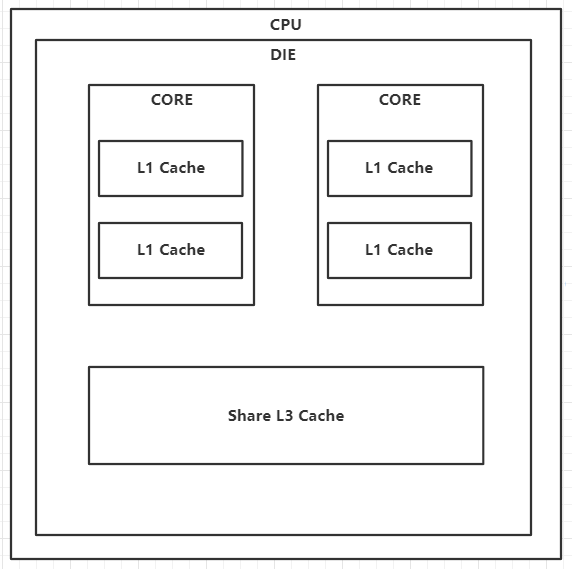
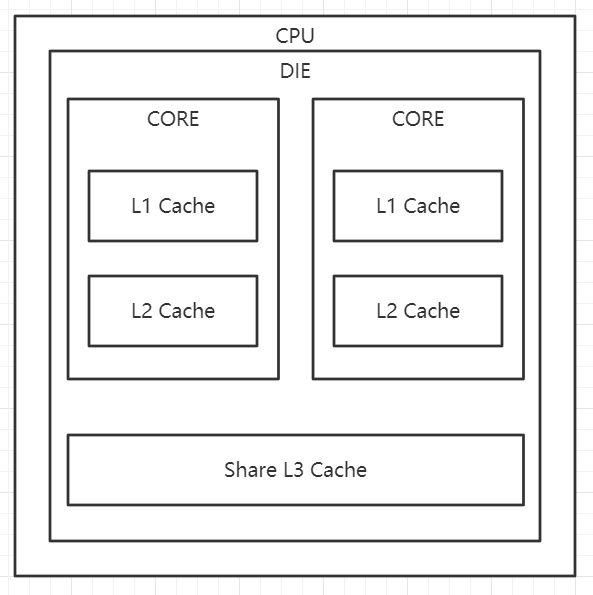
JVM内存相关

Changed region(s): [[0.0, 0.0, 1.0, 0.9859]]

diff --git a/编程语言/Java/Java 进阶/Java并发编程.md b/编程语言/Java/Java 进阶/Java并发编程.md
@@ -1,5 +1,3 @@
-# Java 并发编程
-
 ## 概述
 
 ### 并发与并行
@@ -510,7 +508,7 @@ public static void main(String[] args) throws InterruptedException {
 
 一块 `die` 上可以有多个核心 `core` ，而一块 `cpu` 的 `pcb` 上也可以有多个 `die` 。而 `die` 的大小对 `cpu` 的性能和成本也会有很大影响，`die` 越大则出错的几率也越大良品率下降成本增加，因为 `die` 内部的各部分组件直接通过片内总线相连对性能也有很大提升，例如 `Intel Xeon` 系列的高端处理器中整个 `cpu` 中只有一个 `die` 。反之，`die` 越小虽然良品率上升成本下降，也会因为 `die` 大小原因无法放下更多核心或多个 `die` 之间需要片外总线相连导致性能下降，例如 `AMD` 的 `EYPC CPU` 。
 
-![image-20220210163711496](photo/53、CPU简单结构图(7).png) 
+![image-20220211142800536](photo/53、CPU简单结构图(7).png)  
 
 出自：[CPU DIE - zhihu](https://zhuanlan.zhihu.com/p/51354994) 
 
@@ -518,15 +516,40 @@ public static void main(String[] args) throws InterruptedException {
 
 #### CPU 缓存
 
+##### 概述
+
 计算机的储存硬件通常是固态硬盘 `ssd` 或者机械硬盘 `hdd` ，由于存储介质及其物理特性导致 `ssd` 硬盘比 `hdd` 硬盘存取速度甚至可以高出十几倍之多。虽然 `ssd` 硬盘的速度已经非常可观，但是和 `cpu` 的吞吐量相比差距十分巨大。所以就有了内存 `ram` 用作 `cpu` 和硬盘之间的桥梁，`cpu` 想要读取硬盘中的数据首先需要将数据加载到 `ram` 中再进行下一步操作。
+
+##### 缓存与内存
 
 虽然添加内存之后 `cpu` 的性能得到进一步的发挥，但是内存一般使用 `DRAM` 技术，使用 `DRAM` 储存一位数据需要一个电容加一个晶体管，数据储存在电容中，电容需要充放电才可以进行读写操作，这就导致在读写过程中产生较大的延迟。于是就需要 `cpu` 缓存技术，`cpu` 缓存一般是与核心一起封装在一个 `die` 中，这样的设计也会使性能大大增加。`cpu` 缓存一般采用 `SRAM` 技术，`SRAM` 储存一位数据需要六个晶体管性能方面较 `DRAM` 也有较大提升，因此 `cpu` 缓存的频率与 `cpu` 频率相近。而由于 `SRAM` 技术成本较高且缓存位于 `die` 中，因此 `cpu` 缓存一般只有几十 `KB` 到几十 `MB` 。
 
 详见：[SRAM 与 DRAM](# SRAM 与 DRAM) 
 
+##### CPU 中缓存的结构
+
 现代 `cpu` 一般有三层缓存，呈金字塔状，最接近 `cpu` 的缓存（一般使用 `L1` 标记）容量最小性能也最高，其他缓存性能逐层递减容量也递增。当 `cpu` 查询某条数据时会先从 `L1` 缓存中查找若命中 `cache hit` 则直接使用，若未命中 `cache miss` 则从下一级缓存中查找，直到从内存中获取，最后经过缓存返回到 `cpu` 中。
 
+对于一个完整的 `CPU` ，里面会有若干个核，比如四核八核等等，对于 `CPU` 多核心的场景下，每个核心的 `L1` , `L2` 缓存都只能被这个核访问，别的核无法访问，`L1` ，`L2` 是这个核的私有缓存。而相对应的，`L3` 缓存被以某种协议或者方式链接到 `CPU` 内的一种总线上，供所有核访问，所以，`L3` 为共享缓存。
+
 > 注：在随机读取状态下，内存的读取速度会下降，因为随机读取会导致大量的 `cache miss` 致使性能下降。
+
+##### 缓存性能
+
+一般来说 `L1` 缓存作为最靠近 `cpu` 核心的部分，其频率是与核心频率相同的，当然，容量也是最小的，一般只有几十到几百 `KB` 。而 `L2` 和 `L3` 缓存容量逐级增大，性能也逐级下降。
+
+某 `CPU` 性能表：
+
+|                                 | 时钟周期 | 纳秒（ns） |
+| ------------------------------- | -------- | ---------- |
+| L1 一级缓存                     | 4        | 1.2~2.1    |
+| L2 二级缓存                     | 10       | 3.0~5.3    |
+| L3 三级缓存（核心独享）         | 40       | 12.0~21.4  |
+| L3 三级缓存 （正在共享）        | 65       | 19.5~34.8  |
+| L3 三级缓存（其他核心正在修改） | 75       | 22.5~40.2  |
+| 内存                            |          | 60         |
+
+出自：[CPU缓存(Cache)背后的运行逻辑1-缓存必知](https://zhuanlan.zhihu.com/p/353553358) 
 
 英特尔 `skylake` 架构
 
@@ -556,7 +579,7 @@ public static void main(String[] args) throws InterruptedException {
 
 #### MESI 协议
 
-因为 `IO` 操作的数据访问具有空间连续性（需要访问内存中的很多数据），但是 `IO` 操作较慢，而在 `IO` 操作时读一个字节和读多个字节的时间基本相同，所以内存中操作 `IO` 不是以字节为单位，而是以块为单位。即 `cpu` 缓存中最小的储存单元是缓存行 `cache line` ，而每一级的缓存都会被划分为多组 `cache line` 。例如在 `x86 cpu` 中一个缓存行储存 `64` 字节的数据。
+因为 `IO` 操作的数据访问具有空间连续性（需要访问内存中的很多数据），但是 `IO` 操作较慢，而在 `IO` 操作时读一个字节和读多个字节的时间基本相同，所以内存中操作 `IO` 不是以字节为单位，而是以块为单位。即 `cpu` 缓存中最小的储存单元是缓存行 `cache line` ，而每一级的缓存都会被划分为多组 `cache line` 。目前主流的 `CPU` 的缓存行大小都为 `64B` ，也就是 `512bit` 。这是因为内存的一次传输的单位也是 `64` 字节。
 
 `MESI` 协议即是对缓存行的定义，此协议定义了缓存行的四种状态，使用额外的两位来标识。
 
@@ -584,13 +607,137 @@ public static void main(String[] args) throws InterruptedException {
 
 #### 伪共享
 
+##### 概述
+
 同时更新来自不同处理器的相同缓存代码行中的单个元素会使整个缓存代码行无效，即使这些更新在逻辑上是彼此独立的。每次对缓存代码行的单个元素进行更新时，都会将此代码行标记为**无效**。其他访问同一代码行中不同元素的处理器将看到该代码行已标记为**无效**。即使所访问的元素未被修改，也会强制它们从内存或其他位置获取该代码行的较新副本。这是因为基于缓存代码行保持缓存一致性，而不是针对单个元素的。因此，互连通信和开销方面都将有所增长。并且，正在进行缓存代码行更新的时候，禁止访问该代码行中的元素。
 
+出自：[Oracle 伪共享](https://docs.oracle.com/cd/E19205-01/821-0393/aewcx/index.html) 
 
+蓝色部分是指定 `cpu` 要使用的数据。 
 
-[oracle 伪共享](https://docs.oracle.com/cd/E19205-01/821-0393/aewcx/index.html) 
+![image-2022021109230149](photo/55、MESI协议伪共享01(7).png)  
 
-[Java 中的伪共享](https://juejin.cn/post/7019475740970188837) 
+当 `cpu1` 中缓存行其使用的元素进行修改时，会将 `cpu1` 的此缓存行标记为被修改，`cpu2` 的对应缓存行则会被标记为无效。
+
+![image-20220211092058984](photo/56、MESI协议伪共享02(7).png) 
+
+当 `cpu2` 需要使用后三个元素时，虽然其元素内容与内存中的内容相同，但由于 `cpu2` 的指定缓存行已经被标记为无效，所以还是需要重新获取最新的数据。
+
+![image-20220211093506888](photo/57、MESI协议伪共享03(7).png) 
+
+伪共享 `cpu` 结构图
+
+![伪共享](photo/58、MESI协议伪共享结构图(7).png) 
+
+可以看到在单 `cpu` 多核的情况下需要重新从 `L3` 缓存获取最新的数据，但是如果是多 `cpu` 甚至需要跨槽 `socket` 读取，需要从内存中加载最新值。
+
+ ##### Java 中的伪共享
+
+伪共享在 `java` 中也是一个实际存在的问题，尤其是在循环等情况下会产生较大的资源浪费。
+
+```java
+class MyObject{
+    long a;
+    long b;
+    long c;
+}
+```
+
+如上，对象中有三个 `long` 型变量，`jvm` 在堆中分配空间时这三个变量是在一起的。一个 `long` 占8个字节，而 `x86` 的缓存行为64个字节，因此这三个变量极有可能会在同一缓存行中。
+
+使用以下代码来测试伪共享对性能的影响。
+
+```java
+public class FalseShareTest implements Runnable {
+    // 使用的线程数量
+    public static int NUM_THREADS = 5;
+    // 数组中元素修改次数
+    public final static long ITERATIONS = 500L * 1000L * 1000L;
+    // 当前对象是第几个元素
+    private final int arrayIndex;
+    // 数组
+    private static VolatileLong[] longs;
+    // 运行10次的总时间
+    public static long SUM_TIME = 0l;
+
+    public FalseShareTest(final int arrayIndex) {
+        this.arrayIndex = arrayIndex;
+    }
+
+    public static void main(final String[] args) throws Exception {
+        Thread.sleep(10000);
+        // 运行10次取均值
+        for(int j=0; j<10; j++){
+            System.out.println(j);
+            // 读参
+            if (args.length == 1) {
+                NUM_THREADS = Integer.parseInt(args[0]);
+            }
+            // 新建数组
+            longs = new VolatileLong[NUM_THREADS];
+            for (int i = 0; i < longs.length; i++) {
+                // 实例化对象赋值
+                longs[i] = new VolatileLong();
+            }
+            final long start = System.nanoTime();
+            // 启动线程并等待完成
+            runTest();
+            final long end = System.nanoTime();
+            SUM_TIME += end - start;
+        }
+        // 取均值
+        System.out.println("平均耗时："+SUM_TIME/10);
+    }
+    private static void runTest() throws InterruptedException {
+        // 线程数组
+        Thread[] threads = new Thread[NUM_THREADS];
+        for (int i = 0; i < threads.length; i++) {
+            // 实例化线程
+            threads[i] = new Thread(new FalseShareTest(i));
+        }
+        // 运行
+        for (Thread t : threads) {
+            t.start();
+        }
+        // 等待完成
+        for (Thread t : threads) {
+            t.join();
+        }
+    }
+    public void run() {
+        // 循环给指定元素赋值
+        long i = ITERATIONS + 1;
+        while (0 != --i) {
+            longs[arrayIndex].value = i;
+        }
+    }
+
+    public final static class VolatileLong {
+        public volatile long value = 0L;
+        // 填充缓存行
+        public long p1, p2, p3, p4, p5, p6;     //屏蔽此行
+    }
+
+}
+```
+
+上面代码使用了一个对象数组，这个对象 `VolatileLong` 中有7个 `long` 型变量，其中 `value` 使用 `volatile` 标记，以保证变量的可见性 详见：[Volatile 详解](# Volatile) 。线程 `run` 方法中的代码就是用不同的线程给数组中不同的元素 `VolatileLong` 对象的 `value` 赋值，使用 `for` 循环实例化对象并填充到数组中，此时，数组中的对象在内存中储存的位置应该彼此相邻。此时，整个数组就会在同一个缓存行中被加载到缓存中，不同线程循环不停赋值时就会出现伪共享现象。因此我们在 `VolatileLong` 对象中添加了6个额外的 `long` 型数据，用于撑大 `VolatileLong` 的大小，使数组中的元素不在同一个缓存行中避免伪共享。
+
+关于对象储存大小的详细介绍请查看：[Java 对象模型](# Java 对象模型) 
+
+一下的图表是填充空值和未填充空值时，分别1-5个线程下程序执行所用时间。
+
+![](photo/59、MESI协议伪共享统计图(7).png)  
+
+可以看到在无填充的情况下处理耗时的增长明显大于填充的情况，非常明显，在无填充时发生了伪共享问题，而这个问题在线程越多的情况下越严重。
+
+测试方法及代码出自：[伪共享（false sharing），并发编程无声的性能杀手 ](https://www.cnblogs.com/cyfonly/p/5800758.html) 
+
+##### 避免伪共享
+
+首先第一种就是使用空白的变量进行填充，使不同的元素无法被保存在同一个缓存行中。第二种是使用 `sun.misc.Contended` 注解来解决此问题，此注解的原理也与空白填充的原理相同。在默认情况下，`＠Contended` 注解只用于 `Java` 核心类， 比如此包下的类。如果用户类路径下的类需要使用这个注解， 则需要添加 `JVM` 参数：`-XX:-RestrictContended` 。填充的宽度默认为前后128字节，要自定义宽度则可以设置 `-XX: ContendPaddingWidth` 参数。
+
+伪共享是很隐蔽的，我们暂时无法从系统层面上通过工具来探测伪共享事件。其次，不同类型的计算机具有不同的微架构（如 32 位系统和 64 位系统的 `java` 对象所占自己数就不一样），如果设计到跨平台的设计，那就更难以把握了，一个确切的填充方案只适用于一个特定的操作系统。并且，缓存的资源是有限的，如果填充会浪费珍贵的 `cache` 资源，并不适合大范围应用。
 
 ### JVM 内存
 
@@ -600,17 +747,47 @@ public static void main(String[] args) throws InterruptedException {
 
 #### JVM 内存分区
 
+`JVM` 在执行 `Java` 程序的过程中会把它所管理的内存划分为若干个不同的数据区域。这些区域都有各自的用途，以及创建和销毁的时间，有的区域随着虚拟机进程的启动而存在，有些区域则依赖用户线程的启动和结束而建立和销毁。
 
+![jvm运行时数据区](photo/60、JVM运行时内存分区(7).png) 
+
+`JVM` 内存分区是一个抽象概念，其中的堆、方法区和线程私有的数据，都有可能出现在物理机的内存、缓存和 `cpu` 寄存器中。
+
+##### 程序计数器
+
+程序计数器 `Program Counter Register` 用于储存当前线程所执行的字节码的地址，程序的分支、循环、跳转、异常、线程恢复等都依赖于计数器。当多线程执行当前线程没有获取到 `cpu` 资源或被其他线程获取，当前线程就需要一个单独的计数器，用于在获取到 `cpu` 资源后恢复到正确的位置继续执行。此计数器保存在线程私有的内存中，各线程之间独立储存互不干扰。
+
+若当前线程执行的是 `Java` 方法，则计数器中储存虚拟机字节码的地址；若执行的是本地方法 `Native Method` ，则这个计数器值为空 `Undefined` 。
+
+> 注：此内存空间是唯一一个在 `JVM` 中没有规定 `OutOfMemoryError` 错误的区域。
+
+##### Java 虚拟机栈 Java Virtual Machine Stacks
+
+`Java` 虚拟机栈 `Java Vitual Machine Stack` 是 `Java` 方法执行的内存模型，在栈中存放的是多个栈帧，每个栈帧对应一个被调用的方法，在栈帧中包含了方法的局部变量 `Local Variables` 、操作数栈 `Operand Stack` 、指向方法所属类的运行时常量池 `Reference to runtime constant pool` 、方法返回地址 `Return Address` 和一些额外信息。当线程执行一个方法，便会自动创建一个对应的栈帧，并将栈帧压入栈中。当方法执行完毕，便会将对应的栈帧出栈，而当前执行的方法会永远处于栈帧的顶部。
+
+![image-20220211165207439](photo/60、JVM运行时内存分区-栈(7).png) 
+
+##### 本地方法栈 Native Method Stacks
+
+本地方法栈作用于 `Java` 栈类似，本地方法栈是用于执行本地方法 `Native Method` 。在JVM规范中，并没有具体规定本地方法栈的具体实现方法以及数据结构，而在 `HotSopt` 虚拟机中直接把本地方法栈和 `Java` 栈合并到了一起。
+
+##### 堆 Heap
+
+`Java` 中堆是用来储存对象的数据，在栈中储存的是对象的引用。在堆中的数据是被所有线程共享的，所有线程都可以访问到堆中的数据，且 `JVM` 中只有一个堆。
+
+> 注：在 `Java` 中数组也是一个对象，所以，数组的数据也是储存在堆中。
+
+##### 方法区 Method Area
+
+方法区在与堆一样都是被线程共享的区域，在方法区中存储了每个类的信息（包括类的名称、方法信息、字段信息）、静态变量、常量以及编译器编译后的代码等。
+
+在 `Class` 文件中除了类的字段、方法、接口等描述信息外，还有一项信息是常量池，用来存储编译期间生成的字面量和符号引用。
+
+在方法区中有一个非常重要的部分就是运行时常量池，它是每一个类或接口的常量池的运行时表示形式，在类和接口被加载到 `JVM` 后，对应的运行时常量池就被创建出来。当然并非Class文件常量池中的内容才能进入运行时常量池，在运行期间也可将新的常量放入运行时常量池中，比如 `String` 的 `intern` 方法。
 
 #### JMM 内存模型
 
-`JMM` `Java Memory Model` ，是一种基于计算机内存模型（定义了共享内存系统中多线程程序读写操作行为的规范），屏蔽了各种硬件和操作系统的访问差异，保证 `java` 程序在各平台下对内存的访问都能保证效果一致的规范。
-
-多线程下 `JVM` 内存分区示例图
-
-![image-20220210101158476](photo/51、JVM多线程内存模型(7).png) 
-
-
+`JMM` `Java Memory Model` ，是一种基于计算机内存模型（定义了共享内存系统中多线程程序读写操作行为的规范）。屏蔽了各种硬件和操作系统的访问差异，保证 `java` 程序在各平台下对内存的访问都能保证效果一致的规范，`JMM` 是一个抽象的概念并没有实际的物理实现。
 
 ![image-20220131155830443](photo/48、多线程共享变量操作(7).png) 
 
@@ -626,7 +803,10 @@ public static void main(String[] args) throws InterruptedException {
 
 #### Java 对象模型
 
+在 `HotSpot` 虚拟机中，设计了一个 `OOP-Klass Model` 。 `OOP（Ordinary Object Pointer）` 指的是普通对象指针，而 `Klass` 用来描述对象实例的具体类型。对象在内存中存储的内容可以分为三个部分：对象头 `Header` 、实例数据 `Instance Data` 和对齐填充 `Padding` 。
 
+- 对象头 `Header` 
+  - 标记字（32位 `JVM` 大小 `4B` ，64位 `JVM` 大小 `8B` ）
 
 
 ### 线程同步
@@ -635,7 +815,7 @@ public static void main(String[] args) throws InterruptedException {
 
 #### 线程和共享数据
 
-`Java` 的优点之一就是语言层面上对多线程的支持，这种支持大部分集中在多线程对共享数据的访问，`JVM` 的内存结构主要包含堆、栈、方法区等。
+`Java` 的优点之一就是语言层面上对多线程的支持，这种支持大部分集中在多线程对共享数据的访问。
 
 `JVM` 虚拟机中，每个线程独享一块栈内存其中包含局部变量、线程调用的所有方法的参数和返回值。其他线程无权访问到该栈内存中的数据（这一块栈内存也就是上边图中标记的线程工作内存），栈中的数据仅限于基本类型和对象引用。所以 `JVM` 中栈内是无法储存真实的对象信息的，只可以保存对象的引用，真正的对象保存在堆中。
 
